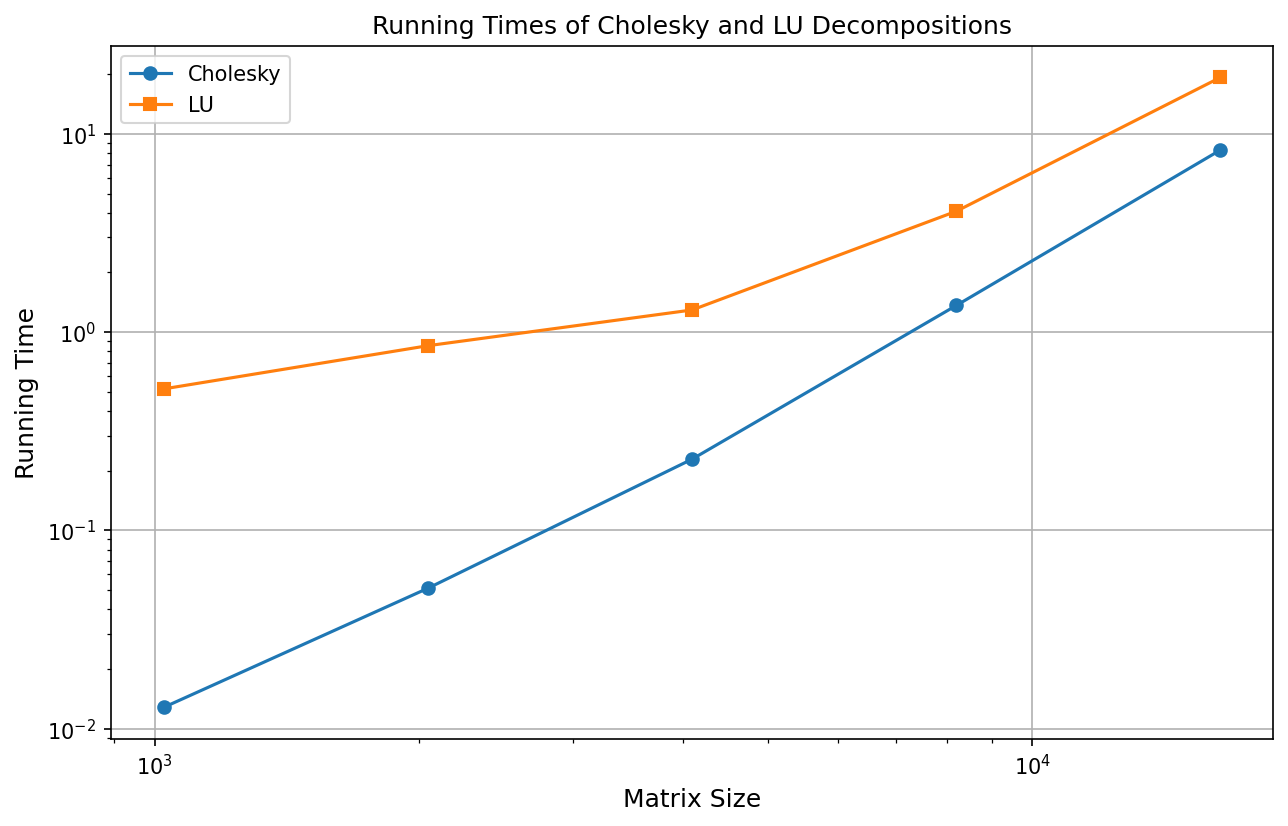
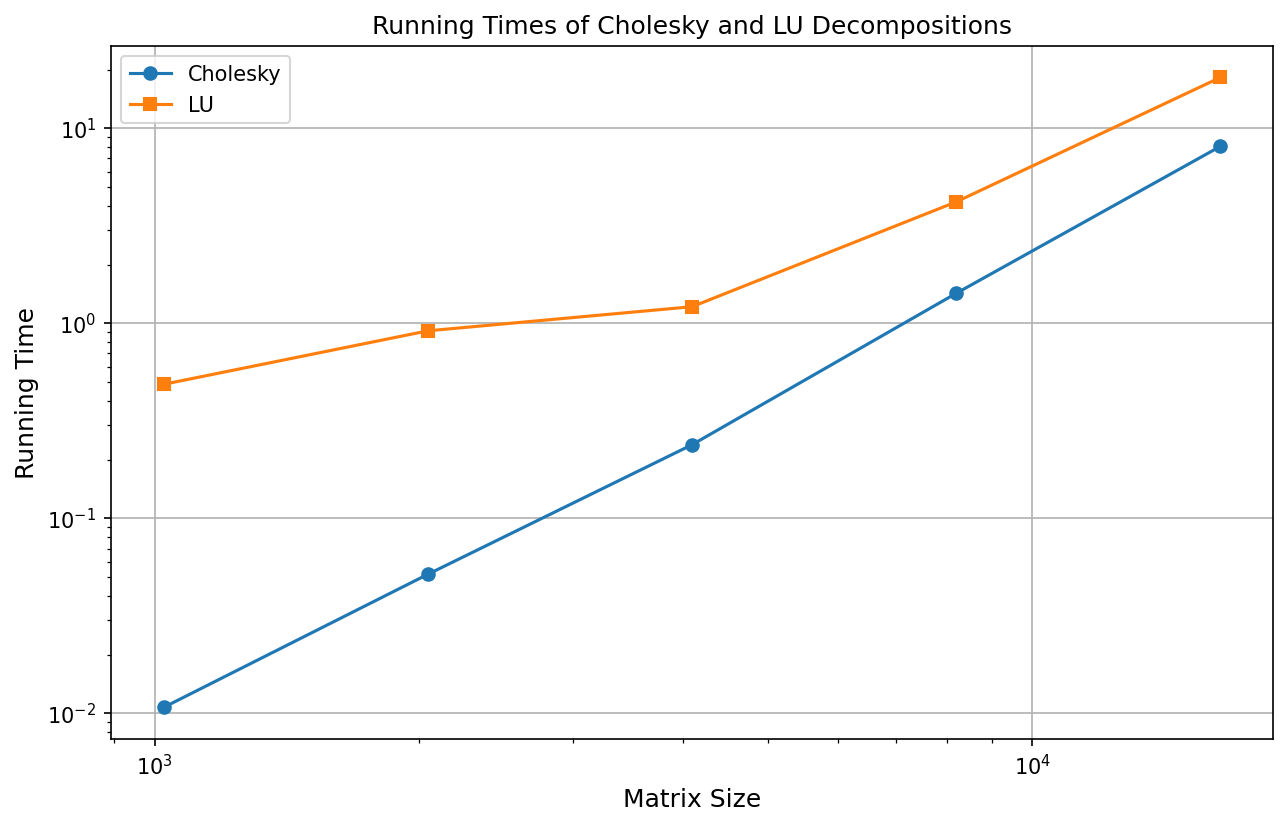
Made some stuff clearer

diff --git a/assignment4/assigment4.py b/assignment4/assigment4.py
@@ -36,7 +36,7 @@ def cholesky_decomposition(input_matrix: NDArray) -> NDArray:
 
 
 input = np.array([[4, 12, -16], [12, 37, -43], [-16, -43, 98]])
-print(cholesky_decomposition(input))
+print(f"Lower triangular matrix L_*:\n {cholesky_decomposition(input)}")
 
 
 def calculate_cholesky_running_time(tridiagonal_matrix_of_size_i: NDArray) -> float:
@@ -71,7 +71,11 @@ def calculate_lu_running_time(tridiagonal_matrix_of_size_i):
     return elapsed_time
 
 
-def plot_function(matrix_sizes: list[Any], cholesky_running_times: list[Any], lu_running_times: list[Any]):
+def plot_function(
+    matrix_sizes: list[Any],
+    cholesky_running_times: list[Any],
+    lu_running_times: list[Any],
+):
     """Produces a loglog plot given specific data.
 
     Arguments:
